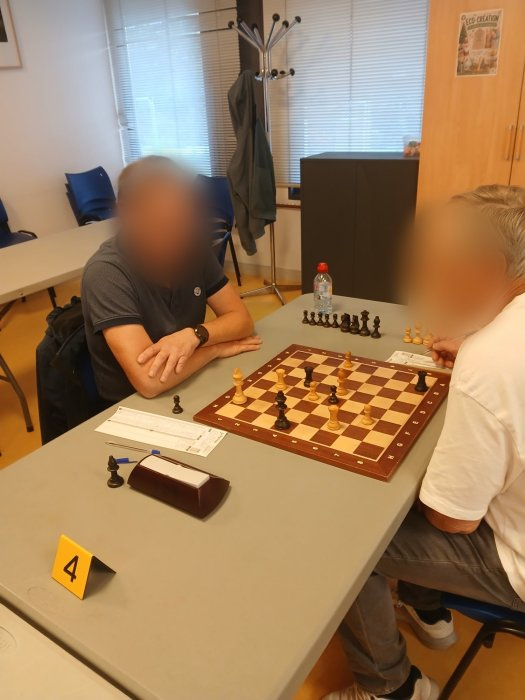
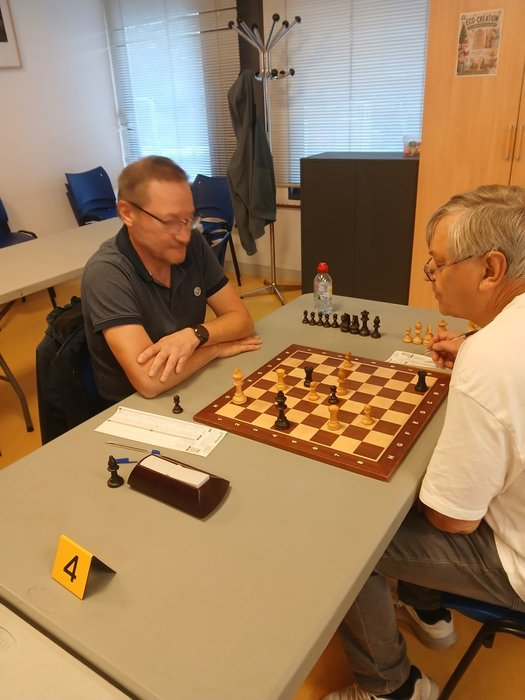
Photos 08 à 10 : versions non floutées sur décision du webmaster
Claude-Session: https://claude.ai/code/session_01FyVsaCQcnvRoMP4xPWrA74

Changed region(s): [[0.7314, 0.27, 0.9752, 0.51], [0.1829, 0.21, 0.4267, 0.42]]

diff --git a/data.js b/data.js
@@ -128,9 +128,9 @@ const TOURNOIS = [
 /* Galerie photos. Pour ajouter une photo : déposer photo-XX.jpg et photo-XX-mini.jpg dans images/galerie/
    puis ajouter une ligne ci-dessous (la plus récente en premier). legende est facultative. */
 const GALERIE = [
-  { fichier: "photo-08", alt: "Deux joueurs face à face au premier plan et une longue rangée d'échiquiers dans la salle de l'Hôtel de Ville de Doudeville, visages floutés", legende: "Championnat par équipes à l'Hôtel de Ville de Doudeville (7 novembre 2026)." },
-  { fichier: "photo-09", alt: "Rangée d'échiquiers sous la charpente en bois de la salle de l'Hôtel de Ville de Doudeville, avec les joueurs concentrés, visages floutés", legende: "Championnat par équipes à l'Hôtel de Ville de Doudeville (7 novembre 2026)." },
-  { fichier: "photo-10", alt: "Deux joueurs de part et d'autre d'un échiquier en pleine partie, visages floutés", legende: "Championnat par équipes (week-end des 7 et 8 novembre 2026)." },
+  { fichier: "photo-08", alt: "Deux joueurs face à face au premier plan et une longue rangée d'échiquiers dans la salle de l'Hôtel de Ville de Doudeville", legende: "Championnat par équipes à l'Hôtel de Ville de Doudeville (7 novembre 2026)." },
+  { fichier: "photo-09", alt: "Rangée d'échiquiers sous la charpente en bois de la salle de l'Hôtel de Ville de Doudeville, avec les joueurs concentrés", legende: "Championnat par équipes à l'Hôtel de Ville de Doudeville (7 novembre 2026)." },
+  { fichier: "photo-10", alt: "Deux joueurs de part et d'autre d'un échiquier en pleine partie", legende: "Championnat par équipes (week-end des 7 et 8 novembre 2026)." },
   { fichier: "photo-05", alt: "Cinq membres du club posent ensemble sur un chemin bordé d'arbres", legende: "Championnat par équipes à Gonfreville-l'Orcher (11 octobre 2026)." },
   { fichier: "photo-06", alt: "Un joueur du club concentré devant son échiquier, dans une salle de tournoi", legende: "Championnat par équipes à Gonfreville-l'Orcher (11 octobre 2026)." },
   { fichier: "photo-07", alt: "Vue d'ensemble de la salle de jeu, remplie de joueurs devant leurs échiquiers", legende: "Championnat par équipes à Gonfreville-l'Orcher (11 octobre 2026)." },

diff --git a/CLAUDE.md b/CLAUDE.md
@@ -31,7 +31,7 @@ Demander quand même confirmation pour les actions risquées ou difficiles à an
 ## Photos
 - Toute photo fournie par l'utilisateur va AUSSI dans la galerie, sans qu'il ait à le redemander : `images/galerie/photo-XX.jpg` (1600 px max) + `photo-XX-mini.jpg` (700 px max) et une entrée en tête de `GALERIE` dans `data.js` (`fichier`, `alt`, `legende`). Pour une actualité, la référencer avec `photos: ["photo-XX"]`.
 - Avant de publier : flouter les visages d'arrière-plan, des enfants et des tiers extérieurs au club (flou gaussien + pixellisation sur masque elliptique ; repérer les visages avec une grille de coordonnées). Ne pas flouter les adultes qui posent volontairement ni le joueur du club au premier plan.
-- Exception : photos-05, 06 et 07 (matchs du 11/10/2026 à Gonfreville l'Orcher) publiées SANS floutage, l'utilisateur ayant confirmé le 11/10/2026 avoir les autorisations des personnes visibles. Cela ne vaut que pour ces photos : pour les suivantes, appliquer la règle ci-dessus sauf nouvelle confirmation.
+- Exceptions : photos-05, 06 et 07 (matchs du 11/10/2026 à Gonfreville l'Orcher) publiées SANS floutage, l'utilisateur ayant confirmé le 11/10/2026 avoir les autorisations des personnes visibles ; photos-08, 09 et 10 (matchs des 7 et 8/11/2026) publiées sans floutage sur décision de l'utilisateur (08/11/2026), après qu'on lui a rappelé la règle. Cela ne vaut que pour ces photos (l'utilisateur n'a pas fait de ces exceptions une règle générale) : pour les suivantes, appliquer la règle ci-dessus sauf nouvelle confirmation.
 - Toujours dire à l'utilisateur ce qui a été flouté pour qu'il puisse corriger.
 - Ne pas nommer de personnes dans les légendes ou textes alternatifs sans confirmation.
 
